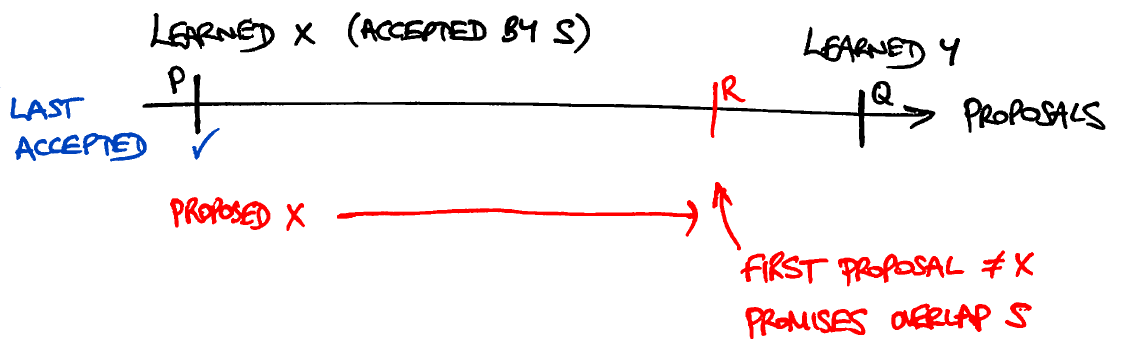
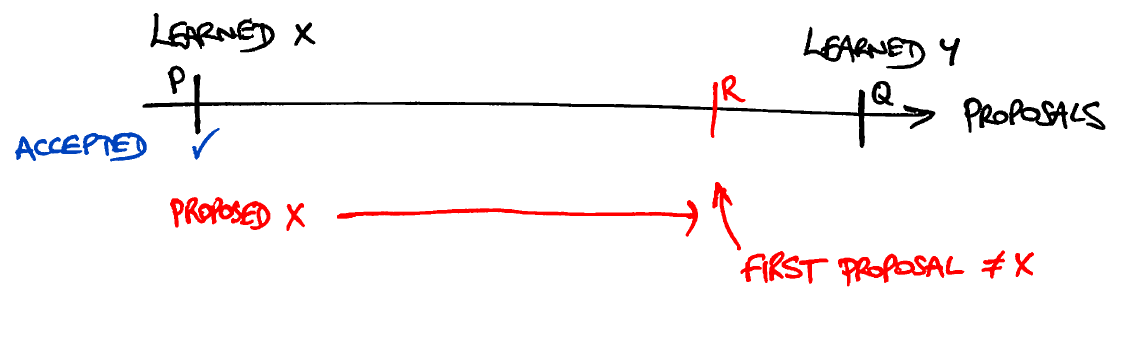
Improvements to proof.

Changed region(s): [[0.6453, 0.8343, 0.9219, 0.9579], [0.3073, 0.0309, 0.5224, 0.1545], [0.0, 0.2781, 0.0615, 0.3399]]

diff --git a/proof.md b/proof.md
@@ -34,24 +34,21 @@ value **X**:
 
 The value of _P_ must have been learned because it was accepted by a majority
 _S_ of acceptors, and the value for _R_ was proposed because of promises from
-another majority of acceptors which therefore overlaps _S_.
-
-<img src='proof/09-promises-overlap.png' width='600px' />
-
-Because the two majorities must overlap there must be an acceptor, say `alice`,
-who accepted _P_ and then promised to accept _R_. It must have happened in that
-order as, having promised to accept _R_, `alice` would then not have been able
-to accept _P_. So the promise `alice` made would have included a
-`lastAcceptedValue` of **X**.
+another majority of acceptors which therefore overlaps _S_. Pick one of the
+acceptors in the overlap, say `alice`, who accepted _P_ and then promised to
+accept _R_. It must have happened in that order as, having promised to accept
+_R_, `alice` would then not have been able to accept _P_.
 
 <img src='proof/10-last-accepted-1.png' width='600px' />
 
-This is true even if `alice` accepted a later proposal than _P_ before
-promising to accept _R_: all such proposals have value **X**.
+Of course `alice` may also have accepted some proposals later than _P_ before
+promising to accept _R_. In any case, the highest-numbered one accepted by
+`alice` has value **X** as it is no earlier than _P_ and is strictly earlier
+than _R_.
 
 <img src='proof/11-last-accepted-2.png' width='600px' />
 
-Therefore the promise made by `alice` must have included a
+Therefore when `alice` promised to accept _R_, the promise must have included a
 `lastAcceptedTimePeriod` that is no earlier than _P_ and is strictly earlier
 than _R_, and the `lastAcceptedValue` is **X**. The other promises may also
 have included a `lastAcceptedTimePeriod`, all of which are strictly less than
